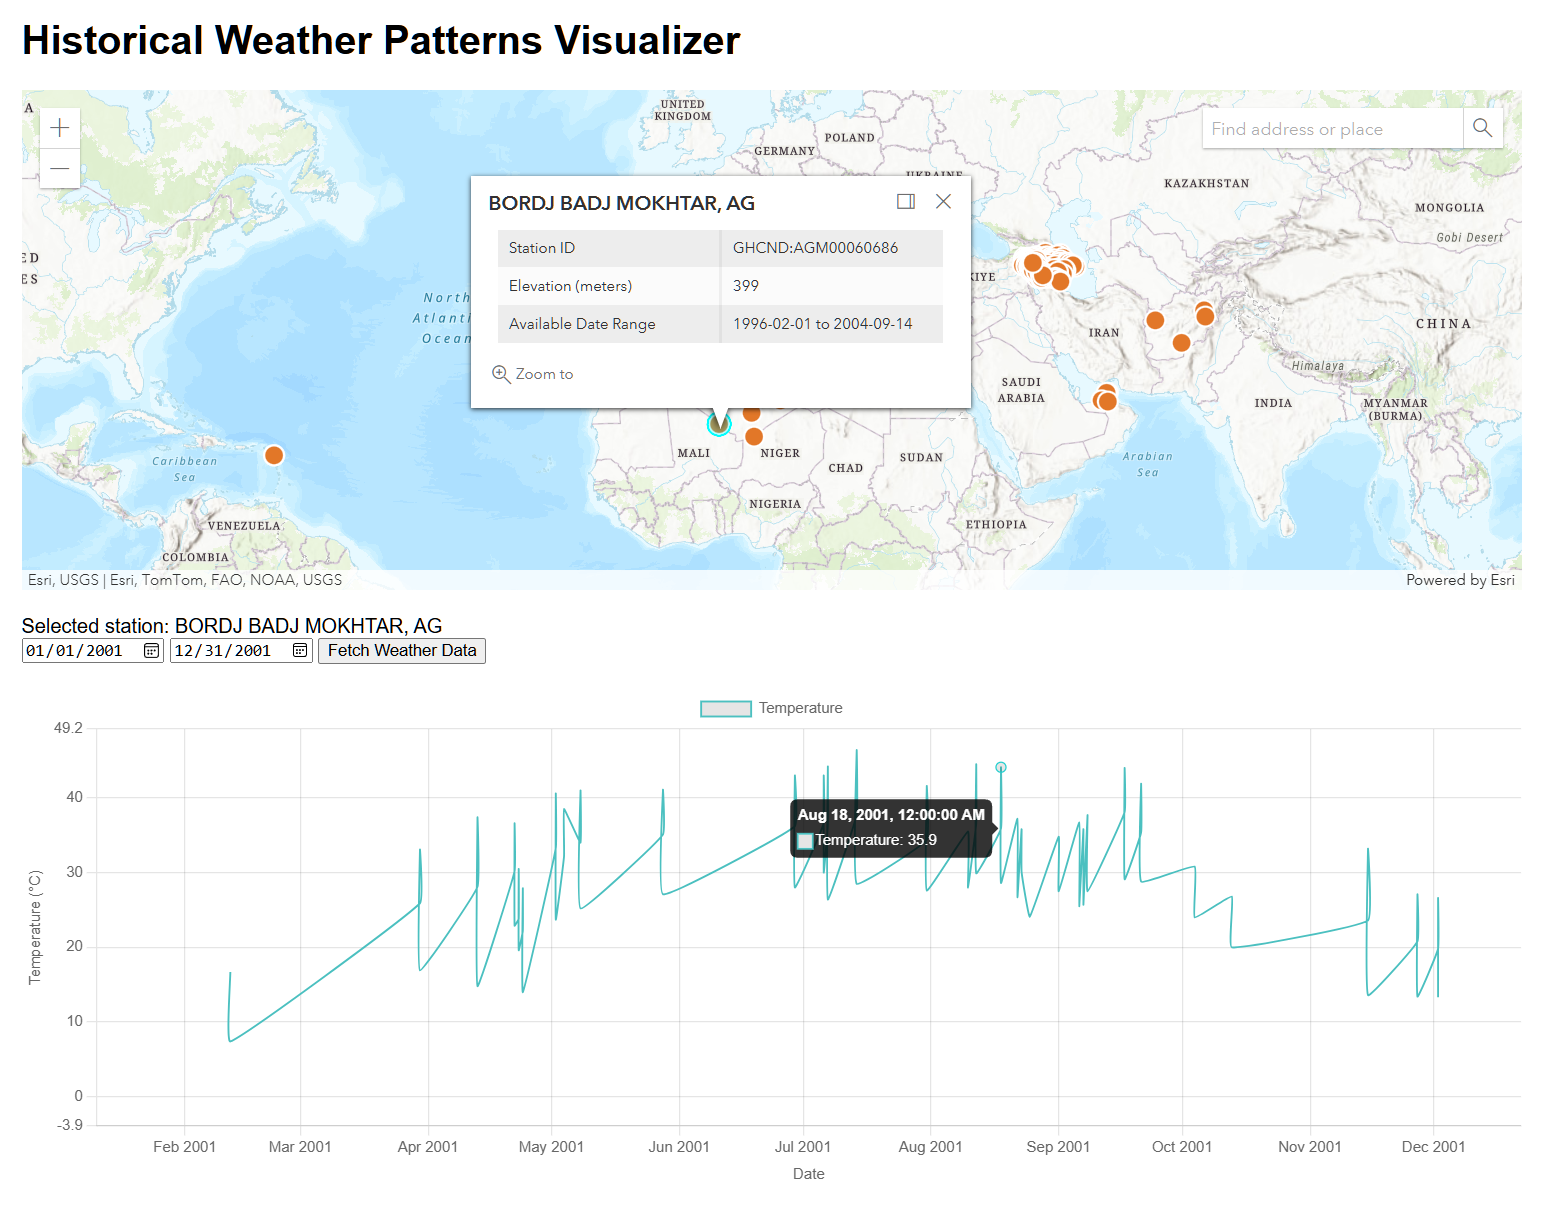
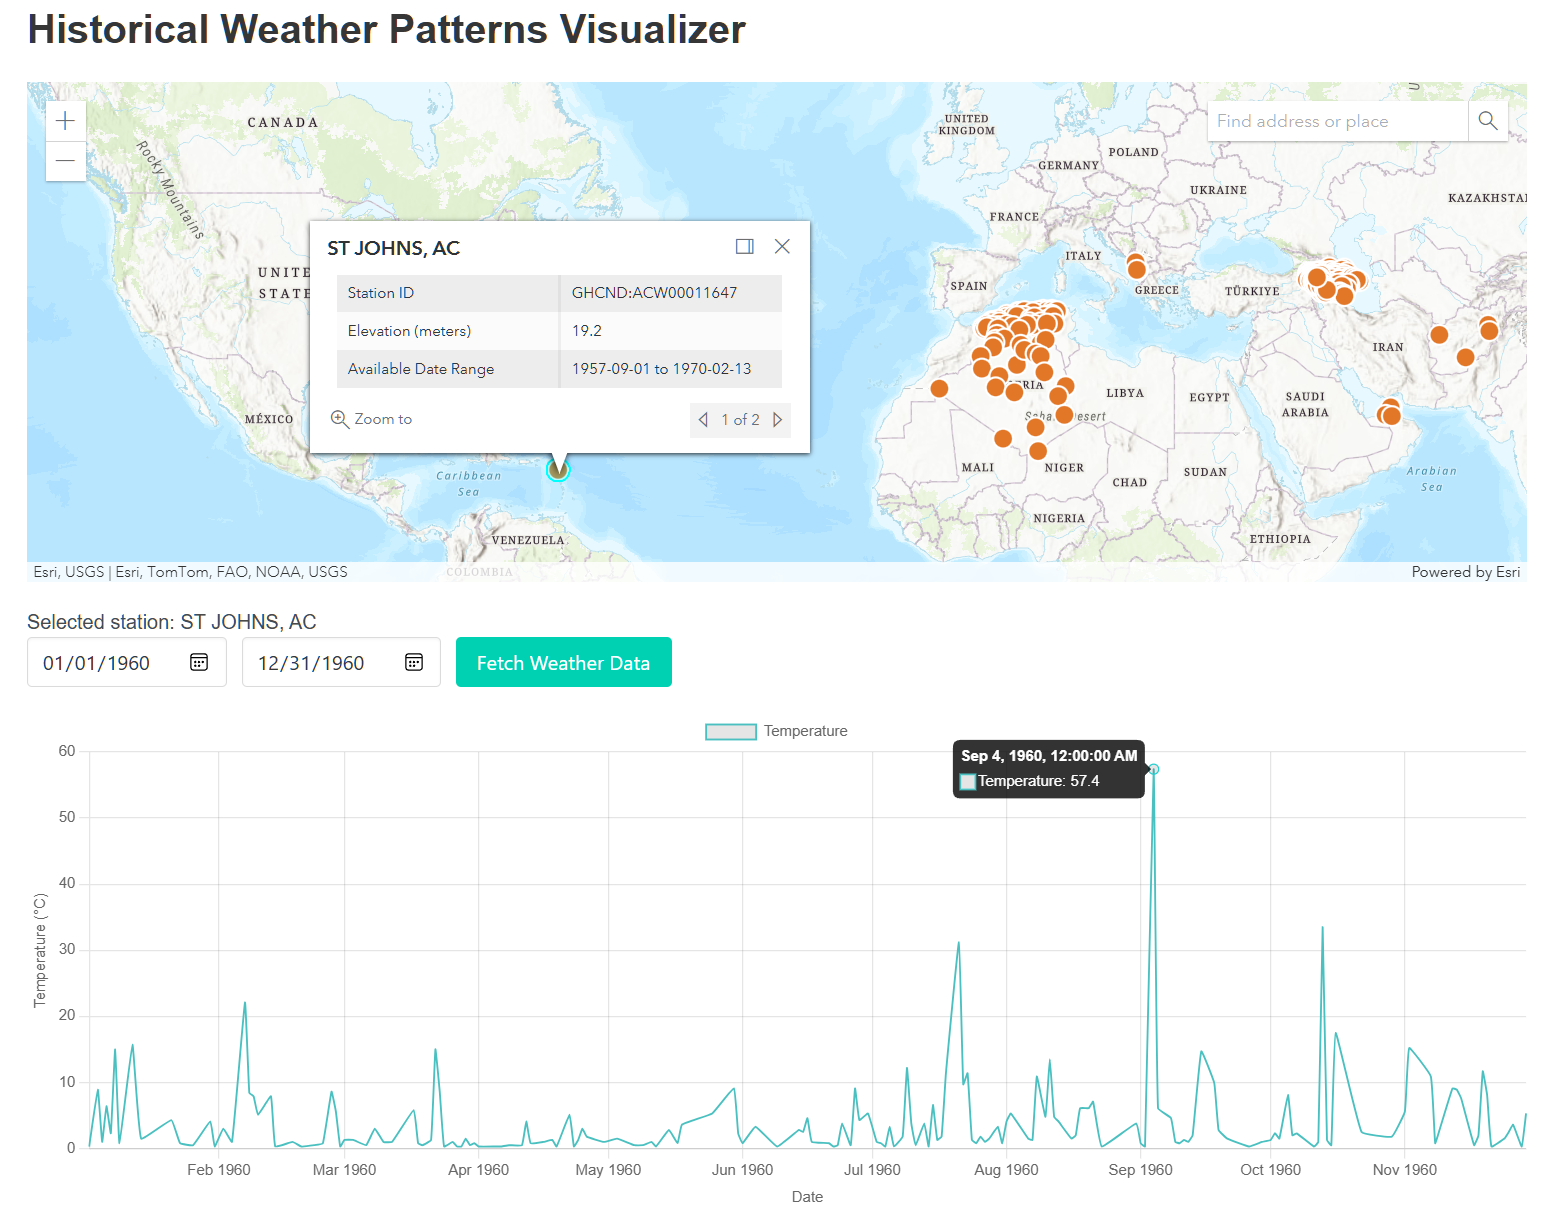
add some styling to controls

diff --git a/static/index.html b/static/index.html
@@ -5,17 +5,24 @@
     <meta name="viewport" content="width=device-width, initial-scale=1.0">
     <title>Weather Visualizer</title>
     <link rel="stylesheet" href="https://js.arcgis.com/4.24/esri/themes/light/main.css">
+    <link rel="stylesheet" href="https://cdn.jsdelivr.net/npm/bulma@0.9.3/css/bulma.min.css">
     <link rel="stylesheet" href="/static/styles.css">
 </head>
 <body>
     <div id="app">
-        <h1>Historical Weather Patterns Visualizer</h1>
+        <h1 class="title">Historical Weather Patterns Visualizer</h1>
         <div id="mapView"></div>
-        <div id="stationInfo"></div>
-        <div id="controls">
-            <input type="date" id="startDate">
-            <input type="date" id="endDate">
-            <button id="fetchData">Fetch Weather Data</button>
+        <h2 id="stationInfo"></h2>
+        <div id="controls" class="field is-grouped">
+            <div class="control">
+                <input type="date" id="startDate" class="input">
+            </div>
+            <div class="control">
+                <input type="date" id="endDate" class="input">
+            </div>
+            <div class="control">
+                <button id="fetchData" class="button is-primary">Fetch Weather Data</button>
+            </div>
         </div>
         <canvas id="weatherChart"></canvas>
     </div>
